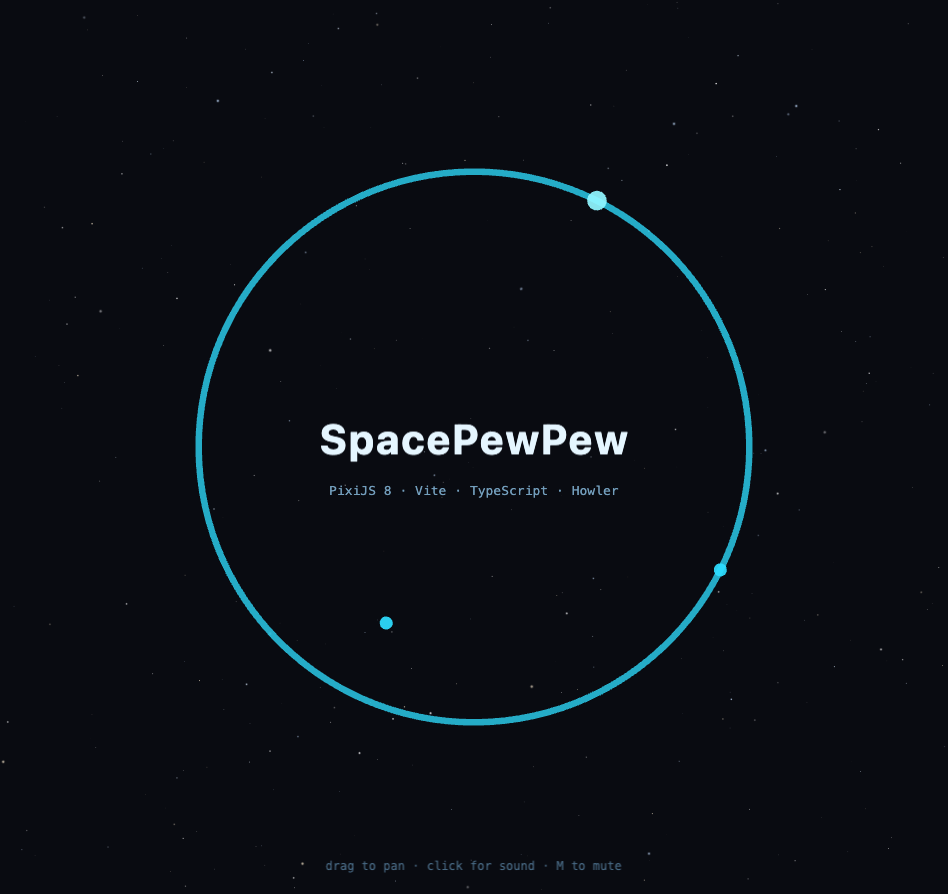
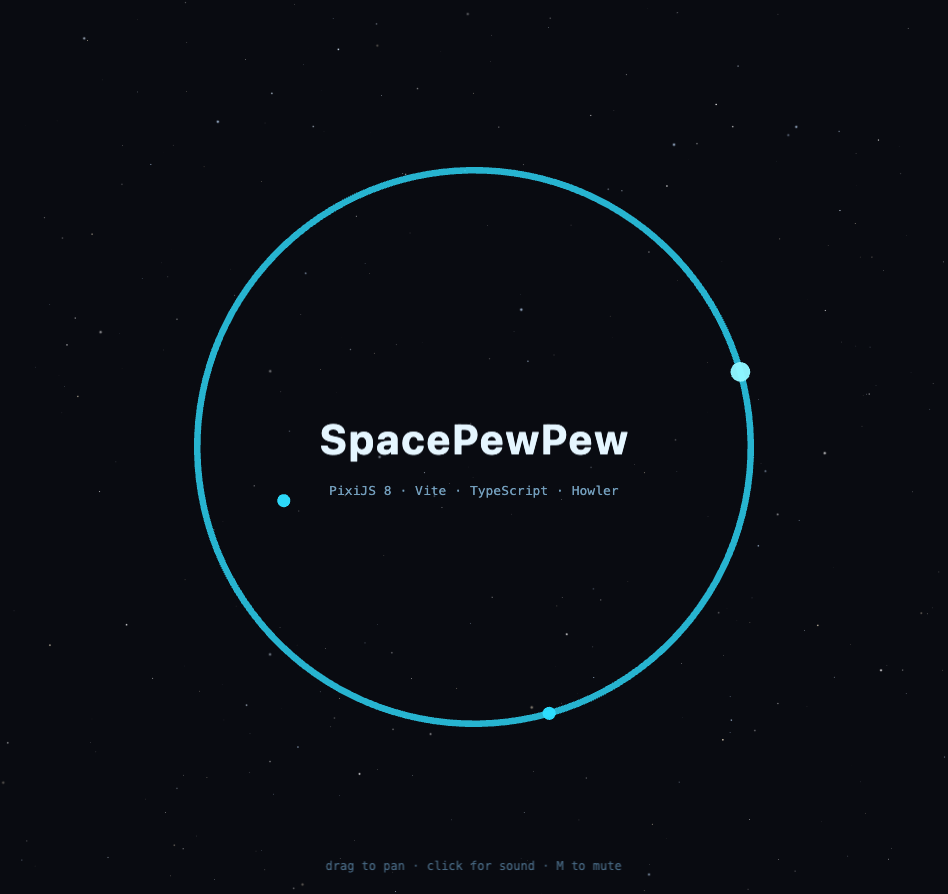
fix: center starfield world coordinates on the origin

diff --git a/src/app/starfield-model.ts b/src/app/starfield-model.ts
@@ -12,7 +12,7 @@ export interface Size {
 }
 
 export interface Star {
-  /** Normalized position in an endlessly repeating field (0–1). */
+  /** Position in the repeating field, centered on the origin: `[-0.5, 0.5)`. */
   x: number;
   y: number;
   /** Rendered glow radius in CSS pixels. */
@@ -83,8 +83,8 @@ export function generateStars(seed: number = STARFIELD_SEED): Star[] {
 
 function createStar(rng: Rng, layer: StarLayer): Star {
   return {
-    x: rng(),
-    y: rng(),
+    x: rng() - 0.5,
+    y: rng() - 0.5,
     radius: randomRange(rng, layer.radius[0], layer.radius[1]),
     alpha: randomRange(rng, layer.alpha[0], layer.alpha[1]),
     tint: pickOne(rng, STAR_TINTS),
@@ -100,22 +100,28 @@ export function wrap01(value: number): number {
   return ((value % 1) + 1) % 1;
 }
 
+/** Normalizes any number into the centered field range `[-0.5, 0.5)`. */
+function wrapCentered(value: number): number {
+  return wrap01(value + 0.5) - 0.5;
+}
+
 export function advanceStars(stars: Star[], deltaSeconds: number): void {
   for (const star of stars) {
-    star.y = wrap01(star.y + star.drift * deltaSeconds);
+    star.y = wrapCentered(star.y + star.drift * deltaSeconds);
   }
 }
 
 /**
  * Projects a star's repeating field position into screen space.
  *
+ * The field is centered on the origin, so `(0, 0)` maps to the viewport center.
  * The camera is unbounded, so panning can continue forever; stars wrap
  * seamlessly at the viewport edges.
  */
 export function projectStar(star: Star, camera: Vec2, viewport: Size): Vec2 {
   return {
-    x: wrap01(star.x - camera.x * star.parallax) * viewport.width,
-    y: wrap01(star.y - camera.y * star.parallax) * viewport.height,
+    x: wrap01(star.x - camera.x * star.parallax + 0.5) * viewport.width,
+    y: wrap01(star.y - camera.y * star.parallax + 0.5) * viewport.height,
   };
 }
 

diff --git a/tests/starfield.test.ts b/tests/starfield.test.ts
@@ -13,8 +13,8 @@ const viewport = { width: 100, height: 200 };
 
 function fixedStar(overrides: Partial<Star> = {}): Star {
   return {
-    x: 0.5,
-    y: 0.5,
+    x: 0,
+    y: 0,
     radius: 1,
     alpha: 1,
     tint: 0xffffff,
@@ -46,10 +46,10 @@ describe('generateStars', () => {
 
   it('produces valid stars', () => {
     for (const star of generateStars(STARFIELD_SEED)) {
-      expect(star.x).toBeGreaterThanOrEqual(0);
-      expect(star.x).toBeLessThan(1);
-      expect(star.y).toBeGreaterThanOrEqual(0);
-      expect(star.y).toBeLessThan(1);
+      expect(star.x).toBeGreaterThanOrEqual(-0.5);
+      expect(star.x).toBeLessThan(0.5);
+      expect(star.y).toBeGreaterThanOrEqual(-0.5);
+      expect(star.y).toBeLessThan(0.5);
       expect(star.radius).toBeGreaterThan(0);
       expect(star.alpha).toBeGreaterThan(0);
       expect(star.alpha).toBeLessThanOrEqual(1);
@@ -61,10 +61,10 @@ describe('generateStars', () => {
 
 describe('advanceStars', () => {
   it('moves stars downward and wraps them', () => {
-    const stars = [fixedStar({ y: 0.9, drift: 0.5 })];
+    const stars = [fixedStar({ y: 0.45, drift: 0.5 })];
     advanceStars(stars, 1);
 
-    expect(stars[0]!.y).toBeCloseTo(0.4);
+    expect(stars[0]!.y).toBeCloseTo(-0.05);
   });
 
   it('is deterministic', () => {
@@ -79,8 +79,15 @@ describe('advanceStars', () => {
 });
 
 describe('projectStar', () => {
-  it('maps field coordinates into the viewport', () => {
+  it('centers the origin in the viewport', () => {
     expect(projectStar(fixedStar(), { x: 0, y: 0 }, viewport)).toEqual({ x: 50, y: 100 });
+  });
+
+  it('maps field coordinates into the viewport', () => {
+    expect(projectStar(fixedStar({ x: 0.25, y: -0.25 }), { x: 0, y: 0 }, viewport)).toEqual({
+      x: 75,
+      y: 50,
+    });
   });
 
   it('applies camera parallax', () => {

diff --git a/README.md b/README.md
@@ -71,6 +71,8 @@ docs/                     Architecture decisions and agent workflow
 ## Controls
 
 - **Drag the canvas** to pan the starfield infinitely; the parallax layers wrap at the edges.
+- The field is **centered on the origin**, so the initial view is centered and panning continues
+  symmetrically in every direction.
 - **Click** for the placeholder sound; **M** mutes/unmutes.
 
 ## Audio
